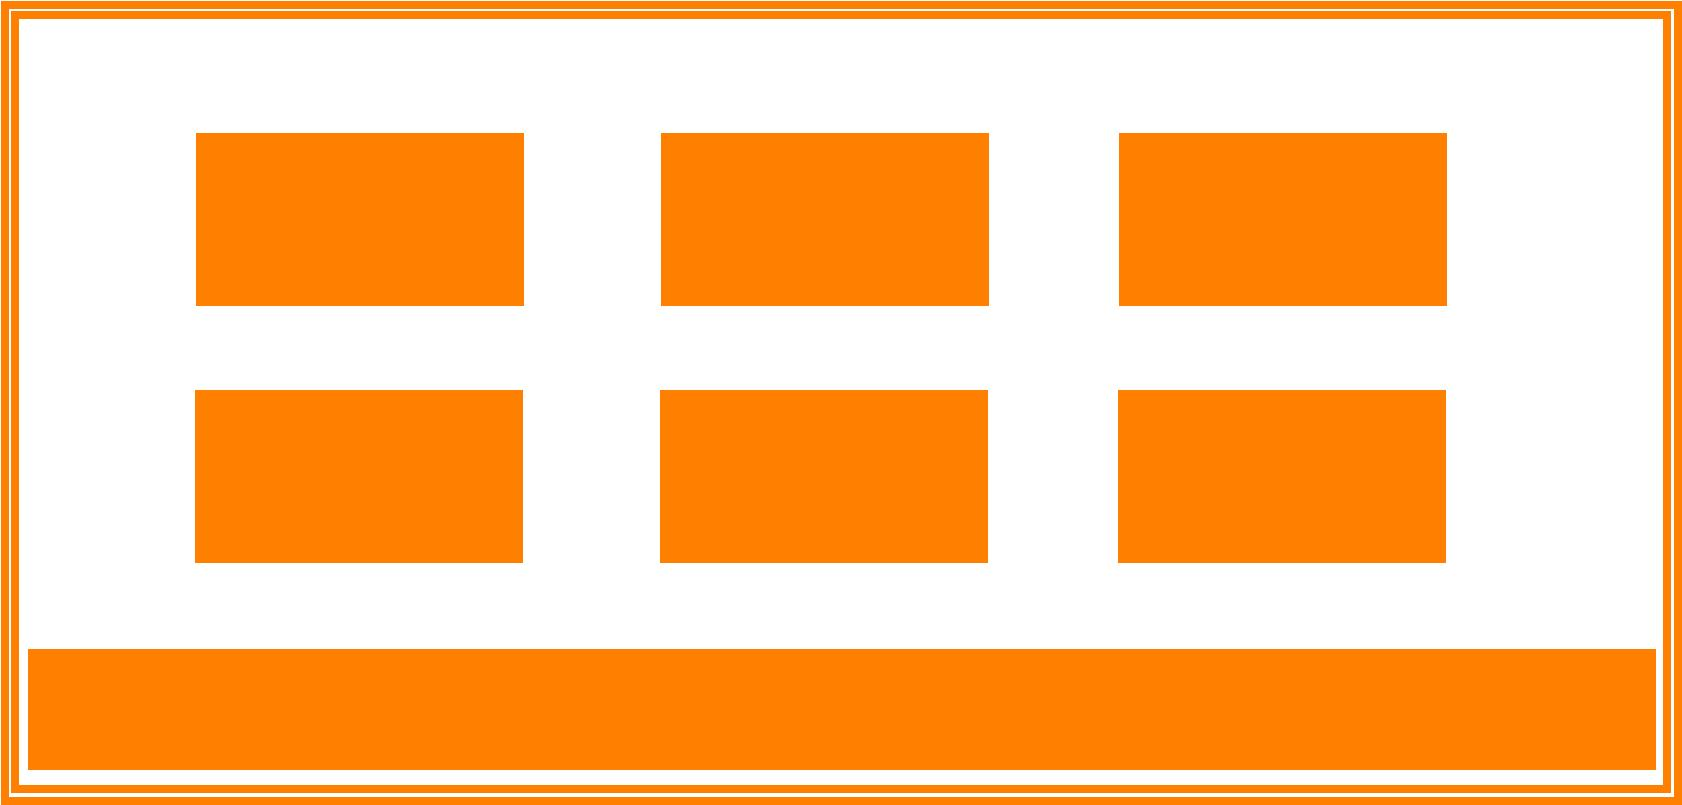
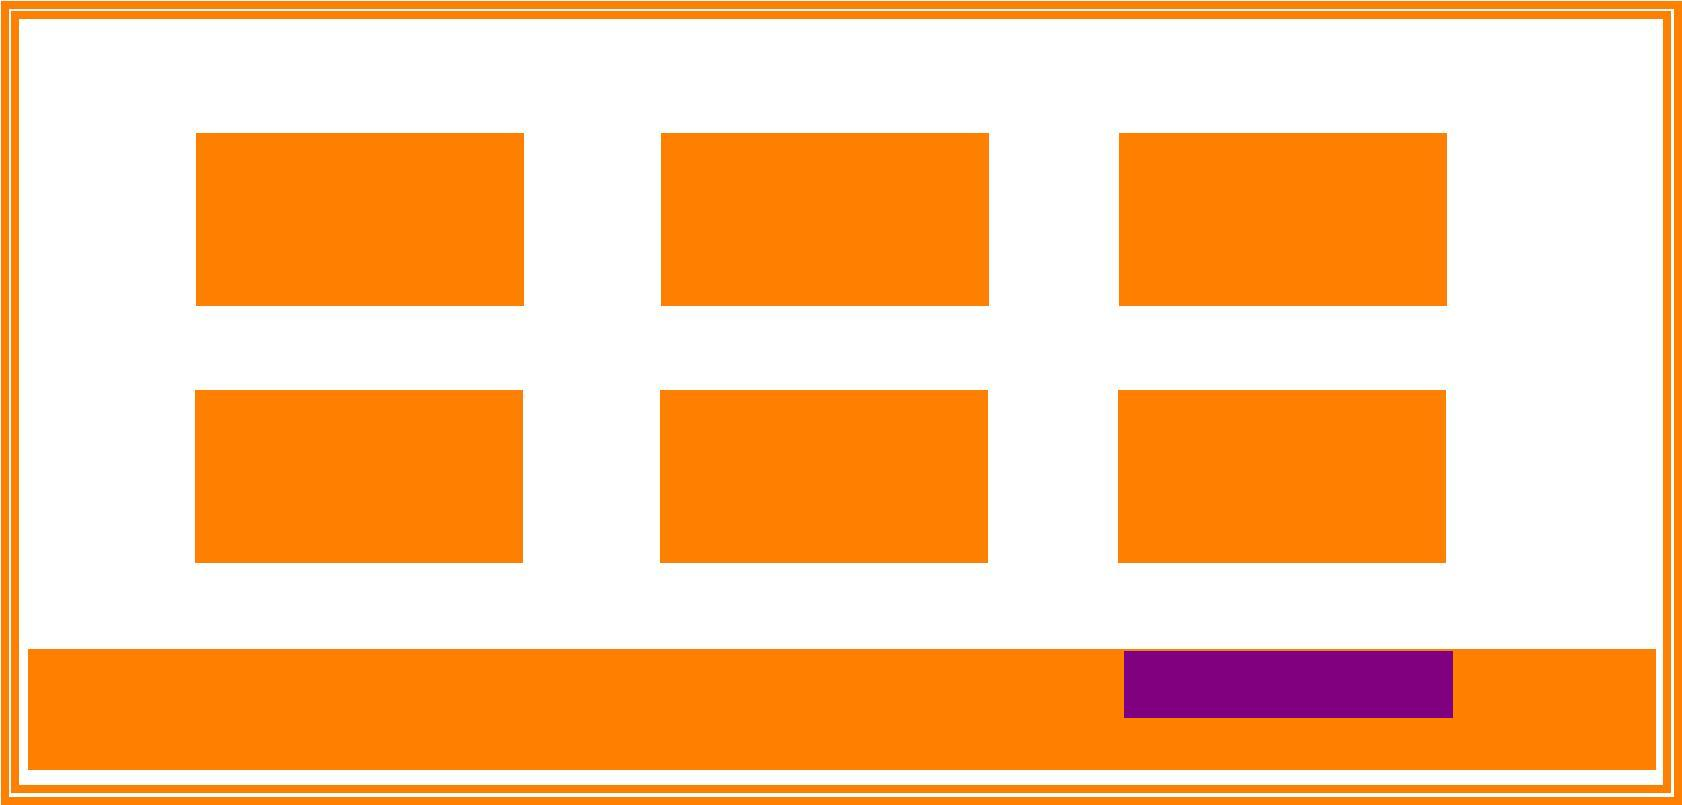
Final Submission

Changed region(s): [[0.6492, 0.8075, 0.8656, 0.9006]]

diff --git a/src/Vehicle.cpp b/src/Vehicle.cpp
@@ -1,5 +1,6 @@
 #include <iostream>
 #include <random>
+#include <algorithm>
 #include "Street.h"
 #include "Intersection.h"
 #include "Vehicle.h"
@@ -10,6 +11,9 @@ Vehicle::Vehicle()
     _posStreet = 0.0;
     _type = ObjectType::objectVehicle;
     _speed = 400; // m/s
+    _wareHouseLastStreetID = 16;
+    // Initalize vehilce by sending it to drop off location
+    _dropOffStreet = _wareHouseLastStreetID;
 }
 
 
@@ -86,12 +90,98 @@ void Vehicle::drive()
                 _speed /= 10.0;
                 hasEnteredIntersection = true;
             }
+            // choose next street and destination
+            std::vector<std::shared_ptr<Street>> streetOptions = _currDestination->queryStreets(_currStreet);
+            std::shared_ptr<Street> nextStreet = _currStreet;
 
             // check wether intersection has been crossed
             if (completion >= 1.0 && hasEnteredIntersection)
             {
-                // choose next street and destination
-                std::vector<std::shared_ptr<Street>> streetOptions = _currDestination->queryStreets(_currStreet);
+                // Also identify the biggest and smallest street Id avaialable.
+                int maxStreetIDAvailable = -1;
+                int minStreetIDAvailable = _wareHouseLastStreetID + 1;
+                std::vector<int> allAvailableStreetIDs;
+                for (auto s : streetOptions )
+                {
+                    allAvailableStreetIDs.push_back(s->getStreetID());
+                    if (s->getStreetID() > maxStreetIDAvailable)
+                    {
+                        maxStreetIDAvailable = s->getStreetID();
+                    }
+                    if (s->getStreetID() < minStreetIDAvailable)
+                    {
+                        minStreetIDAvailable = s->getStreetID();
+                    }
+                }
+                // if not yet reached at the _dropOffStreet
+                if(_currStreet->getStreetID() != _dropOffStreet)
+                {
+                    // Check if we are going to the _wareHouseLastStreet.
+                    if (_dropOffStreet == _wareHouseLastStreetID)
+                    {
+                        // Find the ID in streetOptions where the required street ID is
+                        for (auto s : streetOptions)
+                        {
+                            if(s->getStreetID() == maxStreetIDAvailable)
+                            {
+                                // Go to that street
+                                nextStreet = s; 
+                                std::cout << "Vehicle " << _id << " going to street " << _dropOffStreet << " through street " << nextStreet->getStreetID() << ".\n";
+                            }
+                        }
+                    }
+                    else    // If are going to a random street
+                    {
+                        // Pick smallest street ID as long as picked street ID is greater 
+                        // than or eqaul to dropoff street - 1, else pick the next larger street.
+                        if (minStreetIDAvailable >= _dropOffStreet-1)
+                        {
+                            // Find the ID in streetOptions where the required street ID is
+                            for (auto s : streetOptions)
+                            {
+                                if(s->getStreetID() == minStreetIDAvailable)
+                                {
+                                    // Go to that street
+                                    nextStreet = s; 
+                                std::cout << "Vehicle " << _id << " going to street " << _dropOffStreet << " through street " << nextStreet->getStreetID() << ".\n";
+                                }
+                            }
+                        }
+                        else 
+                        {
+                            // Find the ID in streetOptions where the required street ID is
+                            for (auto s : streetOptions)
+                            {
+                                if(s->getStreetID() == allAvailableStreetIDs[1])
+                                {
+                                    // Go to that street
+                                    nextStreet = s; 
+                                std::cout << "Vehicle " << _id << " going to street " << _dropOffStreet << " through street " << nextStreet->getStreetID() << ".\n";
+                                }
+                            }
+                        }
+                    }
+                }
+                else 
+                {
+                    std::cout << "Vehicle " << _id << " has arrived at street " << _dropOffStreet << " which was its destination. \n";
+                    // assign new drop-off location
+                    if (_currStreet->getStreetID() != _wareHouseLastStreetID)
+                    {    // means we are not at the _wareHouseLastStreetID
+                        _dropOffStreet = _wareHouseLastStreetID;
+                        std::cout << "Vehicle " << _id << " now going to street " << _dropOffStreet << " which is its new destination. \n";
+                    }
+                    else 
+                    {   // means we are at the _wareHouseLastStreetID
+                        // assign a new street randomly
+                        std::random_device rd;
+                        std::mt19937 eng(rd());
+                        std::uniform_int_distribution<> distr(0, _wareHouseLastStreetID-1);
+                        _dropOffStreet = distr(eng);
+                    }
+                }
+                //std::vector<std::shared_ptr<Street>> streetOptions = _currDestination->queryStreets(_currStreet);
+                /*
                 std::shared_ptr<Street> nextStreet;
                 if (streetOptions.size() > 0)
                 {
@@ -106,7 +196,7 @@ void Vehicle::drive()
                     // this street is a dead-end, so drive back the same way
                     nextStreet = _currStreet;
                 }
-                
+                */
                 // pick the one intersection at which the vehicle is currently not
                 std::shared_ptr<Intersection> nextIntersection = nextStreet->getInIntersection()->getID() == _currDestination->getID() ? nextStreet->getOutIntersection() : nextStreet->getInIntersection(); 
 

diff --git a/src/TrafficSimulator-Final.cpp b/src/TrafficSimulator-Final.cpp
@@ -145,64 +145,76 @@ void createTrafficObjects_Warehouse(std::vector<std::shared_ptr<Street>> &street
 
     streets.at(0)->setInIntersection(intersections.at(0));
     streets.at(0)->setOutIntersection(intersections.at(1));
+    streets.at(0)->setStreetID(0);
 
     streets.at(1)->setInIntersection(intersections.at(1));
     streets.at(1)->setOutIntersection(intersections.at(2));
+    streets.at(1)->setStreetID(1);
 
     streets.at(2)->setInIntersection(intersections.at(2));
     streets.at(2)->setOutIntersection(intersections.at(3));
-
+    streets.at(2)->setStreetID(2);
 
 
     streets.at(3)->setInIntersection(intersections.at(4));
     streets.at(3)->setOutIntersection(intersections.at(0));
+    streets.at(3)->setStreetID(3);
 
     streets.at(4)->setInIntersection(intersections.at(5));
     streets.at(4)->setOutIntersection(intersections.at(1));
+    streets.at(4)->setStreetID(4);
 
     streets.at(5)->setInIntersection(intersections.at(6));
     streets.at(5)->setOutIntersection(intersections.at(2));
+    streets.at(5)->setStreetID(5);
 
     streets.at(6)->setInIntersection(intersections.at(7));
     streets.at(6)->setOutIntersection(intersections.at(3));
-
+    streets.at(6)->setStreetID(6);
 
 
     streets.at(7)->setInIntersection(intersections.at(4));
     streets.at(7)->setOutIntersection(intersections.at(5));
+    streets.at(7)->setStreetID(7);
 
     streets.at(8)->setInIntersection(intersections.at(5));
     streets.at(8)->setOutIntersection(intersections.at(6));
+    streets.at(8)->setStreetID(8);
 
     streets.at(9)->setInIntersection(intersections.at(6));
     streets.at(9)->setOutIntersection(intersections.at(7));
-
+    streets.at(9)->setStreetID(9);
 
 
     streets.at(10)->setInIntersection(intersections.at(8));
     streets.at(10)->setOutIntersection(intersections.at(4));
+    streets.at(10)->setStreetID(10);
 
     streets.at(11)->setInIntersection(intersections.at(9));
     streets.at(11)->setOutIntersection(intersections.at(5));
+    streets.at(11)->setStreetID(11);
 
     streets.at(12)->setInIntersection(intersections.at(10));
     streets.at(12)->setOutIntersection(intersections.at(6));
+    streets.at(12)->setStreetID(12);
 
     streets.at(13)->setInIntersection(intersections.at(11));
     streets.at(13)->setOutIntersection(intersections.at(7));
-
+    streets.at(13)->setStreetID(13);
 
 
 
     streets.at(14)->setInIntersection(intersections.at(8));
     streets.at(14)->setOutIntersection(intersections.at(9));
+    streets.at(14)->setStreetID(14);
 
     streets.at(15)->setInIntersection(intersections.at(9));
     streets.at(15)->setOutIntersection(intersections.at(10));
+    streets.at(15)->setStreetID(15);
 
     streets.at(16)->setInIntersection(intersections.at(10));
     streets.at(16)->setOutIntersection(intersections.at(11));
-
+    streets.at(16)->setStreetID(16);
 
 
 
@@ -225,7 +237,7 @@ int main()
     std::vector<std::shared_ptr<Intersection>> intersections;
     std::vector<std::shared_ptr<Vehicle>> vehicles;
     std::string backgroundImg;
-    int nVehicles = 12;
+    int nVehicles = 1;
     createTrafficObjects_Warehouse(streets, intersections, vehicles, backgroundImg, nVehicles);
 
     /* PART 2 : simulate traffic objects */

diff --git a/src/Street.h b/src/Street.h
@@ -18,6 +18,8 @@ public:
     void setOutIntersection(std::shared_ptr<Intersection> out);
     std::shared_ptr<Intersection> getOutIntersection() { return _interOut; }
     std::shared_ptr<Intersection> getInIntersection() { return _interIn; }
+    int getStreetID() {return _streetID;}
+    void setStreetID(int i) {_streetID = i;}
 
     // typical behaviour methods
 
@@ -27,6 +29,7 @@ public:
 private:
     double _length;                                    // length of this street in m
     std::shared_ptr<Intersection> _interIn, _interOut; // intersections from which a vehicle can enter (one-way streets is always from 'in' to 'out')
+    int _streetID;                                      // Individual street ID for each street
 };
 
 #endif

diff --git a/src/Vehicle.h b/src/Vehicle.h
@@ -31,6 +31,9 @@ private:
     std::shared_ptr<Intersection> _currDestination; // destination to which the vehicle is currently driving
     double _posStreet;                              // position on current street
     double _speed;                                  // ego speed in m/s
+    // Introduce two more items
+    int _dropOffStreet;                             // target street to drop off.
+    int _wareHouseLastStreetID;                      // Where every Drop-off should occur 
 };
 
 #endif

diff --git a/README.md b/README.md
@@ -2,7 +2,7 @@
 
 <img src="data/warehouse_layout.jpeg"/>
 
-This is the final project for the [Udacity C++ Nanodegree Program](https://www.udacity.com/course/c-plus-plus-nanodegree--nd213). The project builds upon the Traffic Simulation Project in the Concurrency module of the nano-degree program. The project simulates robots in a warehouse setting where the robots have to go from one location to the other in the warehouse. They have to wait at the intersections so that only one robot passes through the intersection at a time. They also have to respect a traffic light at the intersection before entering the intersection.
+This is the final project for the [Udacity C++ Nanodegree Program](https://www.udacity.com/course/c-plus-plus-nanodegree--nd213). The project builds upon the Traffic Simulation Project in the Concurrency module of the nano-degree program. The project simulates robots in a warehouse setting where the robots have to go from one location to the other in the warehouse. They have to wait at the intersections so that only one robot passes through the intersection at a time. They also have to respect a traffic light at the intersection before entering the intersection. The vehicles also attempt to reach a destination location to pick up things in the warehouse in the shortest possible manner by looking at the current available streets. Once they reach a destination  location, they come back to lower left corner (Street 16) for Drop-Off. This part of the code is in class Vehicle from line 100 - 180.
 
 ## Dependencies for Running Locally
 * cmake >= 3.10.2
